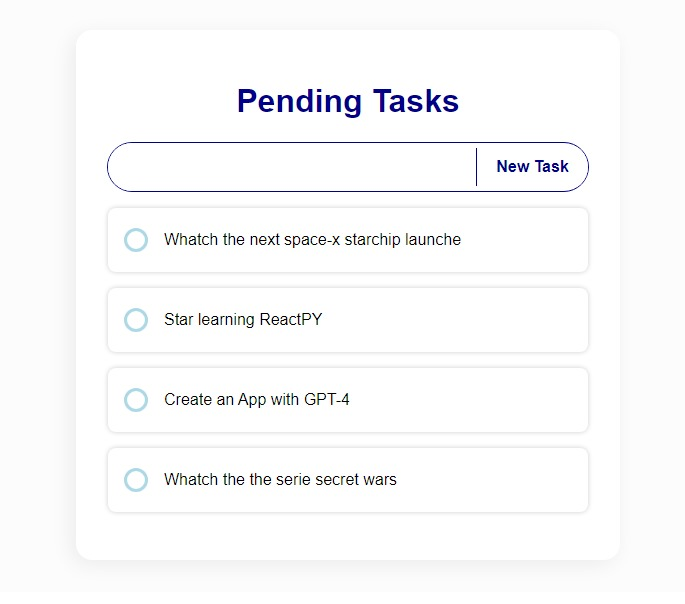
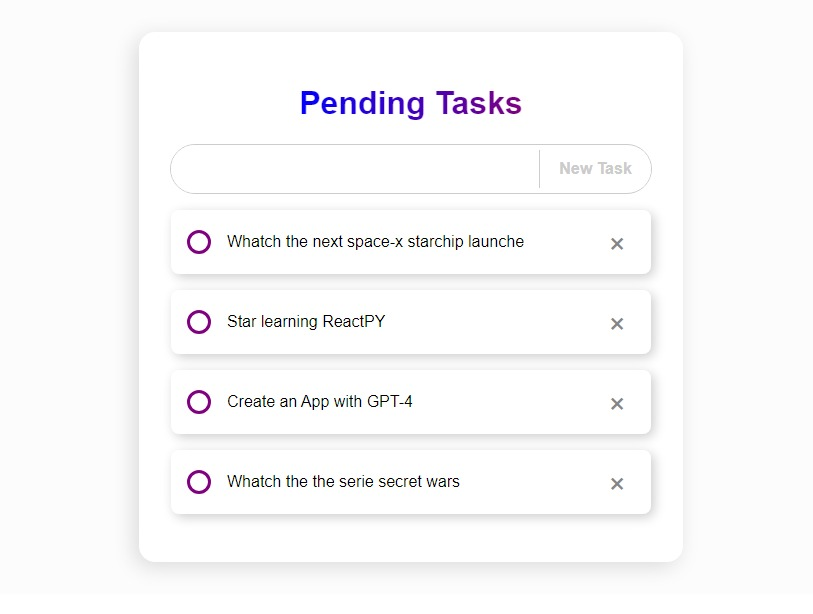
bog fixed when deleting a task and also some upgrades in the styles

diff --git a/main.py b/main.py
@@ -24,20 +24,23 @@ styles = {
             "padding": "2rem",
             "border-radius": "1rem",
             "width": "30rem",
-            "box-shadow": "-.3rem .3rem 1.3rem #0001",
+            "box-shadow": "-.3rem .3rem 1.3rem #0002",
             "background": "#fff",
         }
     },
     "tasks title": {
         "style": {
-            "color": "darkblue",
+            "background": "linear-gradient(90deg, blue, purple)",
+            "-webkit-background-clip": "text",
+            "background-clip": "text",
+            "color": "transparent",
         }
     },
     "tasks form": {
         "style": {
             "height": "3rem",
             "width": "100%",
-            "border": "1px solid darkblue",
+            "border": "1px solid #ccc",
             "display": "flex",
             "border-radius": "50rem",
             "overflow": "hidden",
@@ -59,12 +62,12 @@ styles = {
             "border": "none",
             "outline": "none",
             "color": "#3339",
-            "border-left": "1px solid darkblue",
+            "border-left": "1px solid #ccc",
             "background": "white",
             "font-family": "Helvetica",
             "font-weight": "700",
             "font-size": "1rem",
-            "color": "darkblue",
+            "color": "#ccc",
             "cursor": "pointer",
             "margin": ".3rem 0",
         }
@@ -88,16 +91,11 @@ styles = {
                 "gap": "1rem",
                 "align-items": "center",
                 "padding": "0 1rem",
-                "box-shadow": "0 0 5px #0003",
+                "box-shadow": ".2rem .2rem .7rem #0003",
                 "border-radius": ".5rem",
             }
         },
         "delete btn": {
-            "style": {
-                "display": "none",
-            }
-        },
-        "delete btn active": {
             "style": {
                 "opacity": "1",
                 "transform": "rotate(45deg)",
@@ -128,7 +126,7 @@ styles = {
                 "height": "1.5rem",
                 "aspect-ratio": "1 / 1",
                 "border-radius": "50%",
-                "border": "3px solid lightblue",
+                "border": "3px solid purple",
                 "background": "white",
                 "cursor": "pointer",
             }
@@ -139,7 +137,7 @@ styles = {
                 "aspect-ratio": "1 / 1",
                 "border-radius": "50%",
                 "border": "none",
-                "background": "lightblue",
+                "background": "purple",
                 "cursor": "pointer",
             }
         },
@@ -148,67 +146,74 @@ styles = {
 
 
 @component
-def Task(taks, set_new_tasks=None):
-    done, set_done = hooks.use_state(False)
-
-    def handleClick(e):
-        # e["stopPropagation"]()
-        set_done(not done)
+def Task(task, set_done=None, set_new_tasks=None):
 
     def handleDelete(e):
-        set_new_tasks(taks["id"])
+        set_new_tasks(task["id"])
+        pass
+
+    def handleClick(e):
+        set_done(task["id"])
+        pass
 
     attrs = styles["single task container"]
 
-    if not done:
-        return html.li(
-            attrs["single task"],
-            html.button({
-                "style": attrs["close task btn"]["style"],
-                "onClick": handleClick
-            }, ""),
-            html.span(attrs["task text"], taks["task"]),
-            html.button({
-                "style": attrs["delete btn"]["style"],
-                "onClick": handleDelete
-            }, "+")
-        )
-    else:
-        return html.li(
-            attrs["single task"],
-            html.button({
-                "style": attrs["close task btn active"]["style"],
-                "onClick": handleClick
-            }, ""),
-            html.span(attrs["task text active"], taks["task"]),
-            html.button({
-                "style": attrs["delete btn active"]["style"],
-                "onClick": handleDelete
-            }, "+")
-        )
+    # if not task["done"]:
+    return html.li(
+        attrs["single task"],
+        html.button({"style": attrs["close task btn"]
+                    ["style"], "onClick": handleClick}, "")
+        if not task["done"] else
+        html.button(
+            {"style": attrs["close task btn active"]["style"], "onClick": handleClick}, ""),
+
+        html.span(attrs["task text"], task["task"])
+        if not task["done"] else
+        html.span(attrs["task text active"], task["task"]),
+
+        html.button({"style": attrs["delete btn"]
+                    ["style"], "onClick": handleDelete}, "+")
+    )
 
 
 @component
 def ToDoList():
 
     tasks, set_tasks = hooks.use_state([
-        {"id": 101, "task": "Whatch the next space-x starchip launche"},
-        {"id": 102, "task": "Star learning ReactPY"},
-        {"id": 103, "task": "Create an App with GPT-4"},
-        {"id": 104, "task": "Whatch the the serie secret wars"},
+        {"id": 101, "done": False, "task": "Whatch the next space-x starchip launche"},
+        {"id": 102, "done": False, "task": "Star learning ReactPY"},
+        {"id": 103, "done": False, "task": "Create an App with GPT-4"},
+        {"id": 104, "done": False, "task": "Whatch the the serie secret wars"},
     ])
+
     new_task, set_new_task = hooks.use_state("")
+
+    # hooks.use_effect(lambda: print(tasks), tasks)
+
+    def set_done(id):
+        set_tasks(
+            [
+                task if task["id"] != id else {**task, "done": not task["done"]} for task in tasks
+            ]
+        )
+        pass
 
     def handleChange(e):
         value = e["target"]["value"]
         set_new_task(value)
+        pass
 
     def handleClick(e):
-        set_tasks(lambda tasks: [{"id": len(tasks), "task": new_task}] + tasks)
+        if new_task:
+            set_tasks(lambda tasks: [
+                {"id": int(len(tasks)), "done": False, "task": new_task}] + tasks)
+            set_new_task("")
+        pass
 
     def set_new_tasks(index):
         set_tasks(lambda tasks: [
                   task for task in tasks if task["id"] != index])
+        pass
 
     return html.div(
         styles["main container"],
@@ -218,15 +223,15 @@ def ToDoList():
             html.form(
                 styles["tasks form"],
                 html.input(
-                    {"style": styles["form imput"]["style"], "onChange": handleChange}),
+                    {"style": styles["form imput"]["style"], "value": new_task, "onChange": handleChange}),
                 html.button({
                             "style": styles["form button"]["style"], "type": "button", "onClick": handleClick}, "New Task")
             ),
             html.ul(
                 styles["tasks container"],
                 [
-                    html.li(Task(task, set_new_tasks=set_new_tasks)) for task in tasks
-                ]
+                    html.li(Task(task, set_done=set_done, set_new_tasks=set_new_tasks), key=task["id"]) for task in tasks
+                ] if len(tasks) > 0 else html.span({"style": {"width": "100%", "text-align": "center", "padding-top": "2rem"}}, "No pending taks")
             )
 
         )
